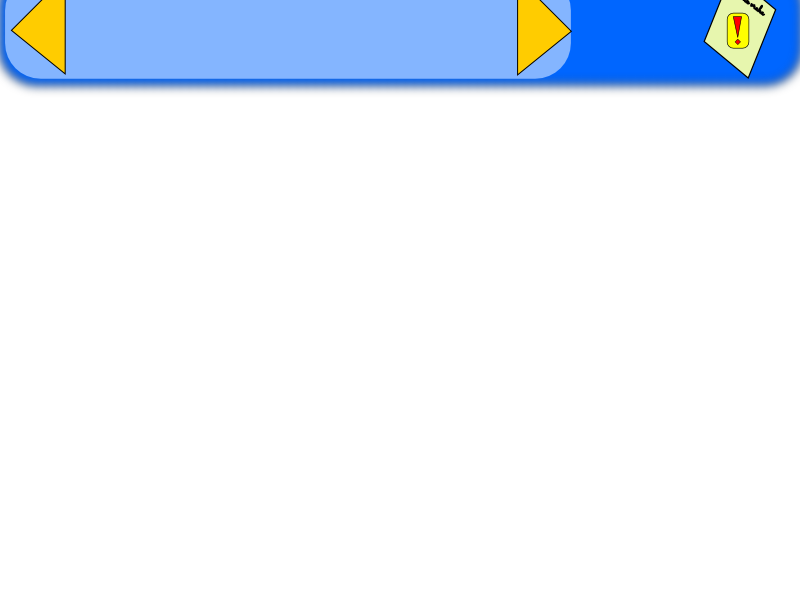
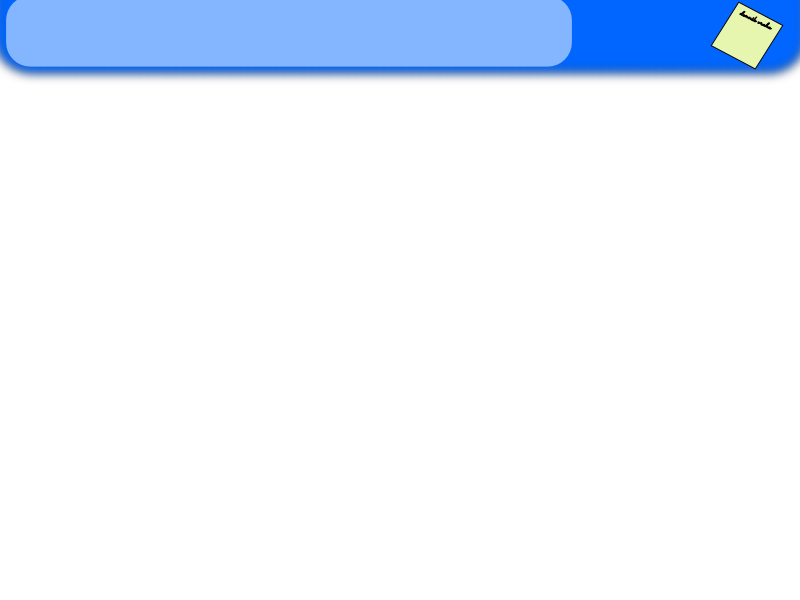
Uz funguje aj horny panel ,ktory ukazuje mementa a veci

Changed region(s): [[0.0, 0.0, 1.0, 0.18]]

diff --git a/src/sk/exceptional/spongia14/engine/GuiTopPanel.java b/src/sk/exceptional/spongia14/engine/GuiTopPanel.java
@@ -1,23 +1,75 @@
 package sk.exceptional.spongia14.engine;
 
+import java.util.Collection;
+import java.util.Iterator;
+
 import org.newdawn.slick.GameContainer;
 import org.newdawn.slick.Graphics;
 import org.newdawn.slick.Image;
+import org.newdawn.slick.Input;
 
+import sk.exceptional.spongia14.api.Item;
+import sk.exceptional.spongia14.api.MissionState;
 import sk.tomsik68.resourceslib.Resources;
 
 public class GuiTopPanel {
     private Image background;
+    private Image excl;
+    private boolean exclShown = false;
+    private boolean openMemento;
+    private MissionState missionState;
+    private final Resources resources;
 
     public GuiTopPanel(Resources res) {
+	this.resources = res;
 	background = res.getImage("gui.top_panel");
+	excl = res.getImage("gui.topPanel_excl");
     }
 
     public void render(Graphics gfx) {
 	gfx.drawImage(background, 0, 0);
+	Collection<Item> inventory = missionState.getInventory().getItems();
+	int x = 20;
+	int i = 0;
+	Iterator<Item> itr = inventory.iterator();
+	while (itr.hasNext() && i <= 8) {
+	    Item item = itr.next();
+	    gfx.drawImage(resources.getImage(item.getResourceImage()), x, 5);
+	    x += 64;
+	}
+
+	if (isExclShown()) {
+	    gfx.drawImage(excl, 732, 30);
+	}
     }
 
     public void update(GameContainer gc) {
+	if (gc.getInput().isMouseButtonDown(Input.MOUSE_LEFT_BUTTON)) {
+	    int mouseX = gc.getInput().getMouseX();
+	    int mouseY = gc.getInput().getMouseY();
+	    if (mouseX >= 732 && mouseX <= 760 && mouseY < 60) {
+		setOpenMemento(true);
+	    }
+	}
+    }
 
+    public boolean isExclShown() {
+	return exclShown;
+    }
+
+    public void setExclShown(boolean exclShown) {
+	this.exclShown = exclShown;
+    }
+
+    public boolean isOpenMemento() {
+	return openMemento;
+    }
+
+    public void setOpenMemento(boolean openMemento) {
+	this.openMemento = openMemento;
+    }
+
+    public void setMissionState(MissionState missionState) {
+	this.missionState = missionState;
     }
 }

diff --git a/src/sk/exceptional/spongia14/engine/InRegionSetGameState.java b/src/sk/exceptional/spongia14/engine/InRegionSetGameState.java
@@ -38,6 +38,7 @@ public class InRegionSetGameState extends BasicGameState implements
     private boolean inDialog = false;
     private boolean inMemento = false;
     private MementoGui mementoGui;
+    private GuiTopPanel topPanel;
 
     // private ClickableRegionSetContainer newContainer;
 
@@ -69,6 +70,8 @@ public class InRegionSetGameState extends BasicGameState implements
 	placeSwitched(beginning);
 	mementoGui = new MementoGui(resources.getImage("gui.memento"),
 		resources);
+	topPanel = new GuiTopPanel(resources);
+	topPanel.setMissionState(missionState);
     }
 
     @Override
@@ -82,6 +85,7 @@ public class InRegionSetGameState extends BasicGameState implements
 		gfx.fillRect(0, 0, gc.getWidth(), gc.getHeight());
 	    }
 	}
+	topPanel.render(gfx);
 	if (inMemento && !mementoGui.isDone()) {
 	    mementoGui.render(gfx);
 	}
@@ -111,8 +115,11 @@ public class InRegionSetGameState extends BasicGameState implements
 		    container.init(resources);
 		}
 	    }
-	    if (gc.getInput().isKeyPressed(Input.KEY_M)) {
+	    if (gc.getInput().isKeyPressed(Input.KEY_M)
+		    || (topPanel.isOpenMemento() && !inMemento)) {
 		mementoGui.show();
+		topPanel.setExclShown(false);
+		topPanel.setOpenMemento(false);
 		inMemento = true;
 		System.out.println("Janeviemus");
 	    }
@@ -129,7 +136,7 @@ public class InRegionSetGameState extends BasicGameState implements
 	    }
 	    dialogWizard.update(gc);
 	}
-
+	topPanel.update(gc);
     }
 
     @Override
@@ -157,6 +164,7 @@ public class InRegionSetGameState extends BasicGameState implements
 	 * mementoGui.showMemento(resources.getImage(mementoRes));
 	 */
 	mementoGui.addMemento(mementoRes);
+	topPanel.setExclShown(true);
     }
 
 }

diff --git a/src/sk/exceptional/spongia14/engine/SpongiaCampaign.java b/src/sk/exceptional/spongia14/engine/SpongiaCampaign.java
@@ -141,6 +141,13 @@ public class SpongiaCampaign {
 	    actionSet.addAction(new DialogStartAction("dialogSoServirkou2"));
 	    actionSet.addAction(new AddMementoAction("memento.memento3"));
 	    actionSet.addAction(new DenyAccessAction("planMesta"));
+	    actionSet.addAction(new ChangePersonState("waitress", "stav4"));
+	    state.setAction(actionSet);
+	    uvitaciaServirka.addState(state);
+	    // aby mi nezakazovala vstup do mesta
+	    state = new PersonState("stav4");
+	    actionSet = new ActionSet();
+	    actionSet.addAction(new DialogStartAction("dialogSoServirkou2"));
 	    state.setAction(actionSet);
 	    uvitaciaServirka.addState(state);
 
